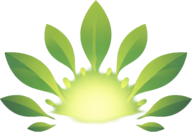
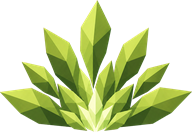
art: redraw 6 standalone explosion VFX to master style (#692)
Redraws fire_explode, leaf_explode, rock_explode, water_explode,
wind_explode, and lava_fist as flat faceted-plane cut-paper bursts,
matching ArcaneImpact.png. Fire and lava_fist move to the Hellfire
legion palette (dark crust, orange-red glow through cracks); rock
moves from cool grey to the rock-golem's warm tan + moss palette per
STYLE.md. All six keep their original pixel size and .meta guid.

wind_explode needed one retry: the first generation came back as a
symmetric four-arm pinwheel that read as an emblem rather than an
explosion, rejected and regenerated as separate uneven shard pieces.

Part of #683. The frame pairs (electric_explode, razor_gale), the
rune and spawn sets, shoot/drop, and the orphaned lightning_explode
are deferred to later batches so a usage-limit cutoff does not leave
a matched set half-redrawn.

diff --git a/.art/PRODUCTION-STATUS.md b/.art/PRODUCTION-STATUS.md
@@ -73,6 +73,12 @@
 | `BombSprite.png`, `BombSpriteBomb.png` | 클라이언트 PR (이슈 #679) | 222x256 / 231x256 RGBA. 채색 그림체에서 master-v2 로 재작업. 도화선 불꽃을 양쪽 다 금색으로 맞췄다 |
 | `explode.png` | 클라이언트 PR (이슈 #682) | 841x769 RGBA. 마법 폭발/실패 표시. 남색-보라 결정 파편 다발, 가운데 비움, 원본의 분홍·보라 정체성은 파편 두 개에 악센트로 남김. green 키 제거, 네 모서리 alpha 0 |
 | `hit_effect.png` | 클라이언트 PR (이슈 #682) | 771x700 RGBA. 피격 표시, 8방향 쐐기 방사형 파편, 가운데 비움. magenta 키 제거, 네 모서리 alpha 0 |
+| `explode/fire_explode.png` | 클라이언트 PR (이슈 #683) | 192x168 RGBA, 원본 크기 유지. 화염탄 계열 공용 폭발. Hellfire legion 팔레트(어두운 갑각+주황-빨강 갈라진 빛)로 교체, 기존의 밝은 주황-노랑 그라데이션에서 이동. magenta 키 제거, enclosed_pixels=3, 네 모서리 alpha 0, 64px 실루엣 검수 완료 |
+| `explode/leaf_explode.png` | 클라이언트 PR (이슈 #683) | 192x132 RGBA, 원본 크기 유지. 나뭇잎 파편 부채꼴, ArcaneImpact.png 결정 파편 기법 적용. magenta 키 제거, enclosed_pixels=0, 네 모서리 alpha 0, 64px 실루엣 검수 완료 |
+| `explode/rock_explode.png` | 클라이언트 PR (이슈 #683) | 192x124 RGBA, 원본 크기 유지. 돌 파편 폭발. STYLE.md 규칙대로 찬 회색에서 이끼바위 골렘의 따뜻한 황갈+이끼 팔레트로 교체, 중심 섬광도 시안에서 미색으로 바꿔 물 계열과 겹치지 않게 했다. magenta 키 제거, enclosed_pixels=0, 네 모서리 alpha 0, 64px 실루엣 검수 완료 |
+| `explode/water_explode.png` | 클라이언트 PR (이슈 #683) | 192x134 RGBA, 원본 크기 유지. 물보라 파편, 물결 밑동에서 물방울 결정이 솟는 구도 유지. magenta 키 제거, enclosed_pixels=1, 네 모서리 alpha 0, 64px 실루엣 검수 완료 |
+| `explode/wind_explode.png` | 클라이언트 PR (이슈 #683) | 192x144 RGBA, 원본 크기 유지. 첫 생성이 4방향 완전 대칭 바람개비로 나와 "아이템처럼 보인다"는 기준으로 탈락시키고, 길이·각도·간격이 제각각인 낱개 파편으로 다시 생성해 통과시켰다. magenta 키 제거, enclosed_pixels=2, 네 모서리 alpha 0, 64px 실루엣 검수 완료 |
+| `explode/lava_fist.png` | 클라이언트 PR (이슈 #683) | 130x192 RGBA, 원본 크기 유지. 용암 주먹, HellfireDemon.png 재질(어두운 갑각+주황 갈라진 빛)로 교체. magenta 키 제거, enclosed_pixels=0, 네 모서리 alpha 0, 64px 실루엣 검수 완료 |
 | `electric_field.png` | 클라이언트 이슈 #681 재작업 검수 | 192x84 RGBA. 번개 정령 팔레트, 굵은 아크 서너 줄기가 타원 바깥쪽 1/3에 몰리고 가운데 1/3은 거의 맨 그을린 땅. 소환수 스프라이트를 얹어 실루엣이 읽히는지 확인했다 |
 | `fire_field.png` | 클라이언트 이슈 #681 재작업 검수 | 192x68 RGBA. 지옥불 팔레트, 그을린 땅에서 솟은 불꽃이 타원 전체를 덮는다. 테두리가 가장 높고 중앙으로 갈수록 낮아져 소환수 자리가 남는다 |
 | `leaf_field.png` | 클라이언트 이슈 #681 재작업 검수 | 192x79 RGBA. 자연 정령 팔레트, 땅에서 자란 풀잎이 타원 전체를 덮는다. 테두리가 가장 높고 중앙으로 갈수록 낮아져 소환수 자리가 남는다 |
